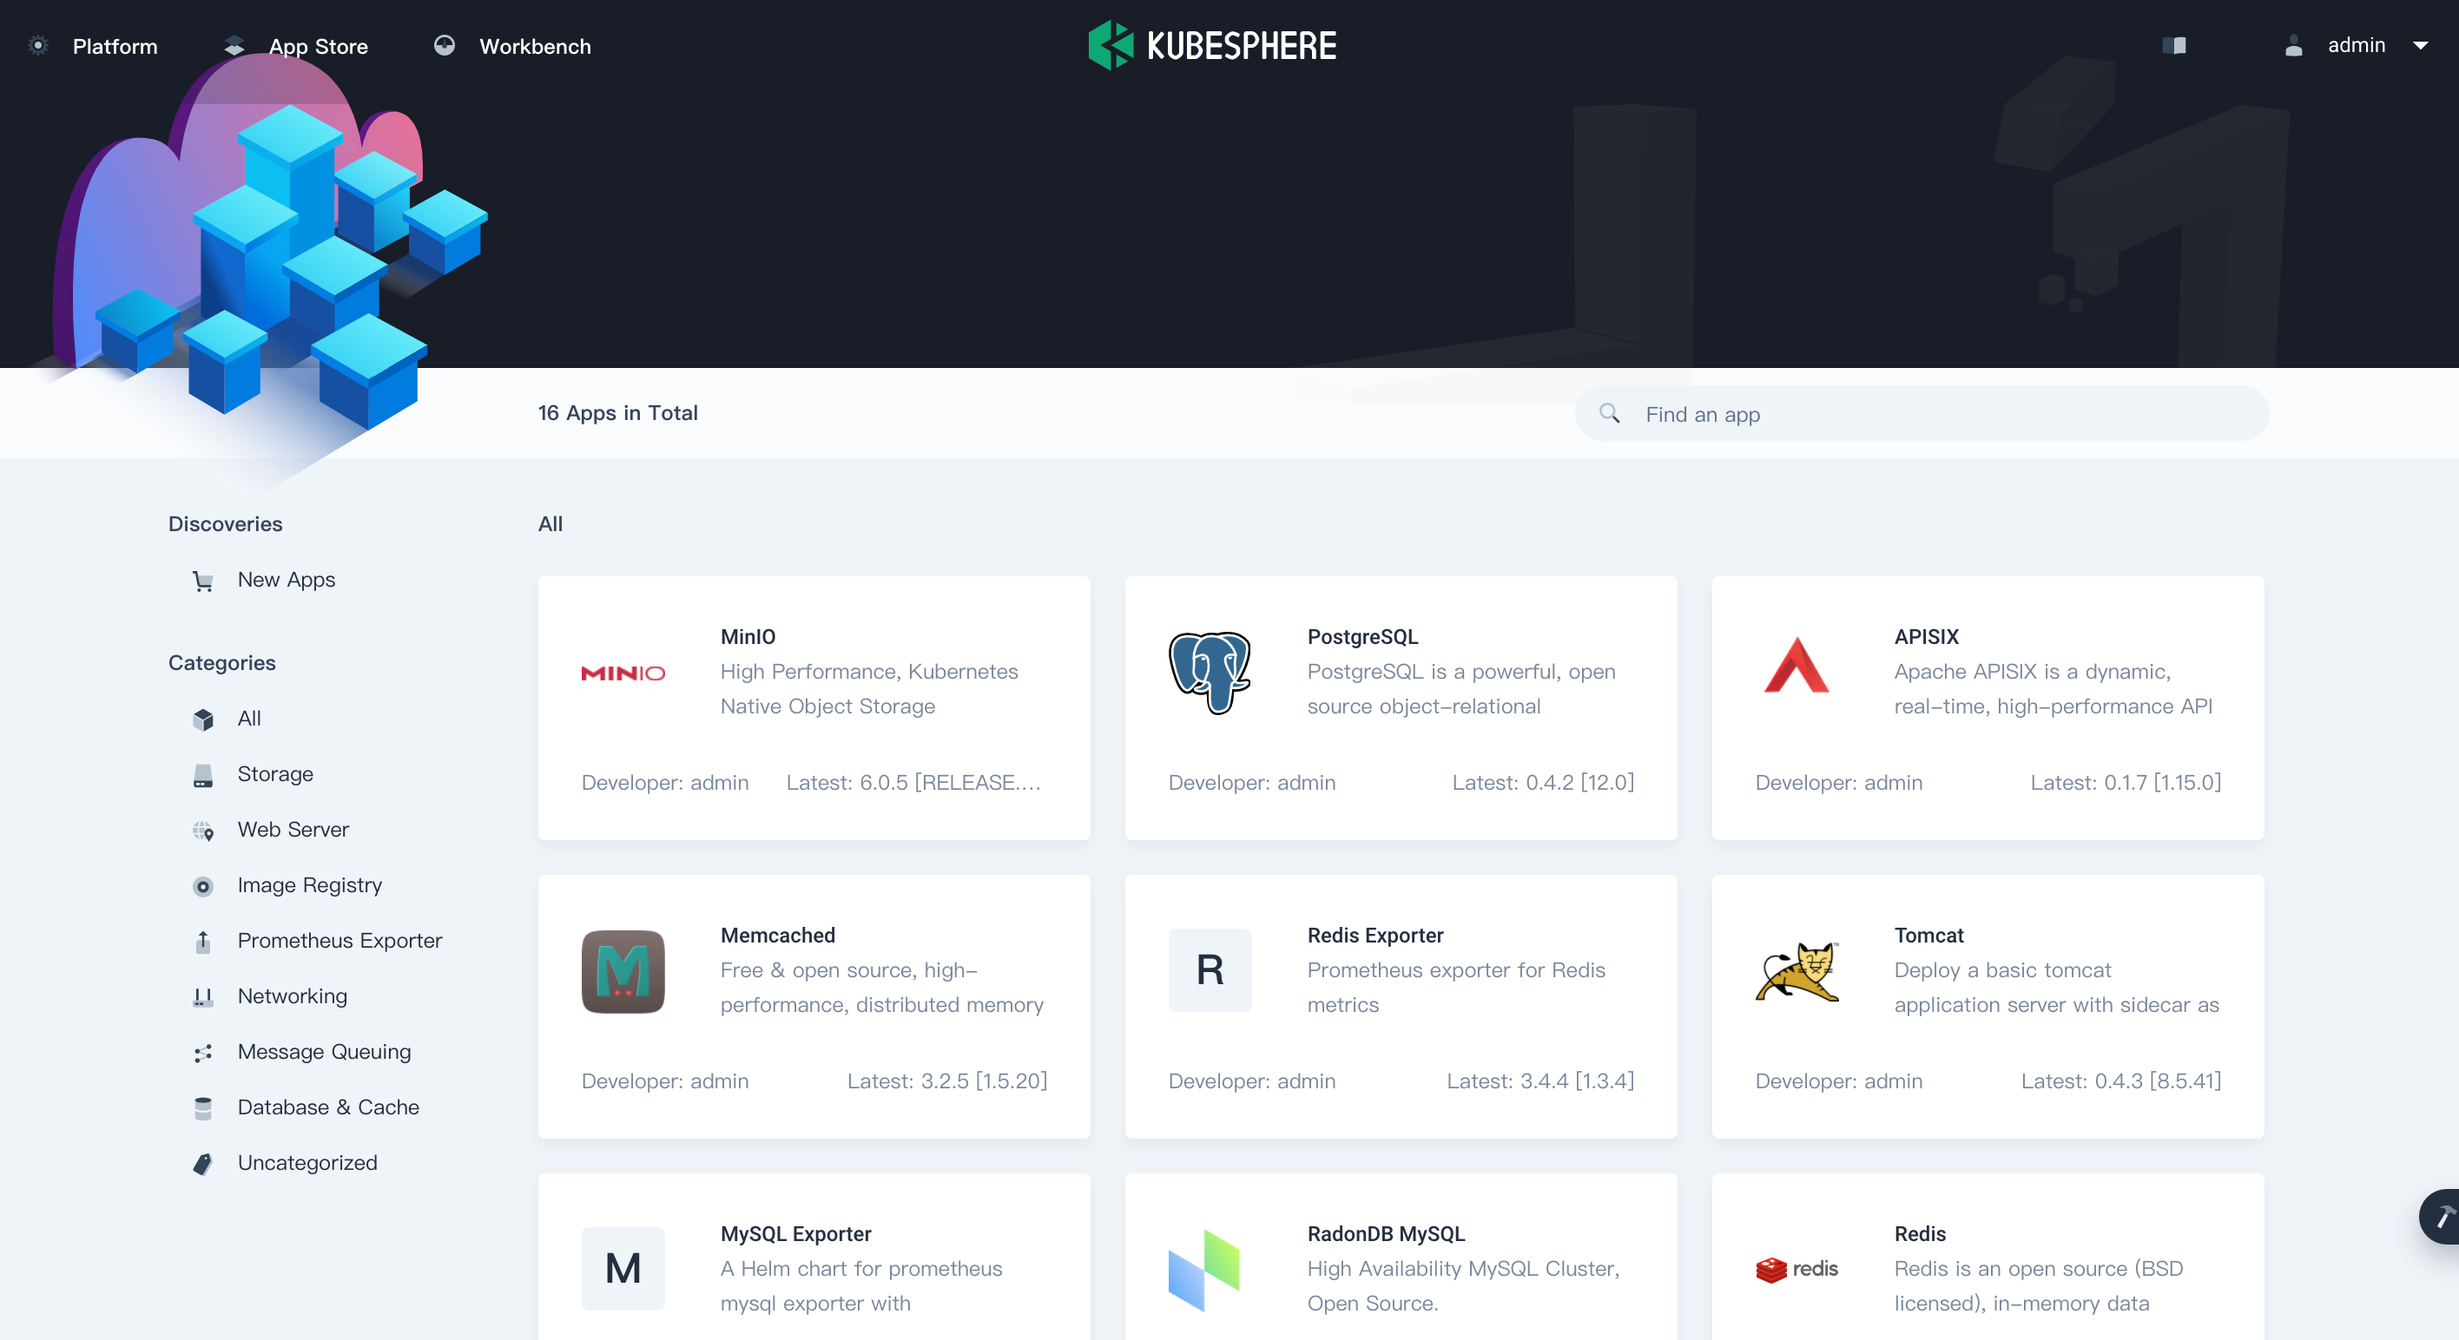
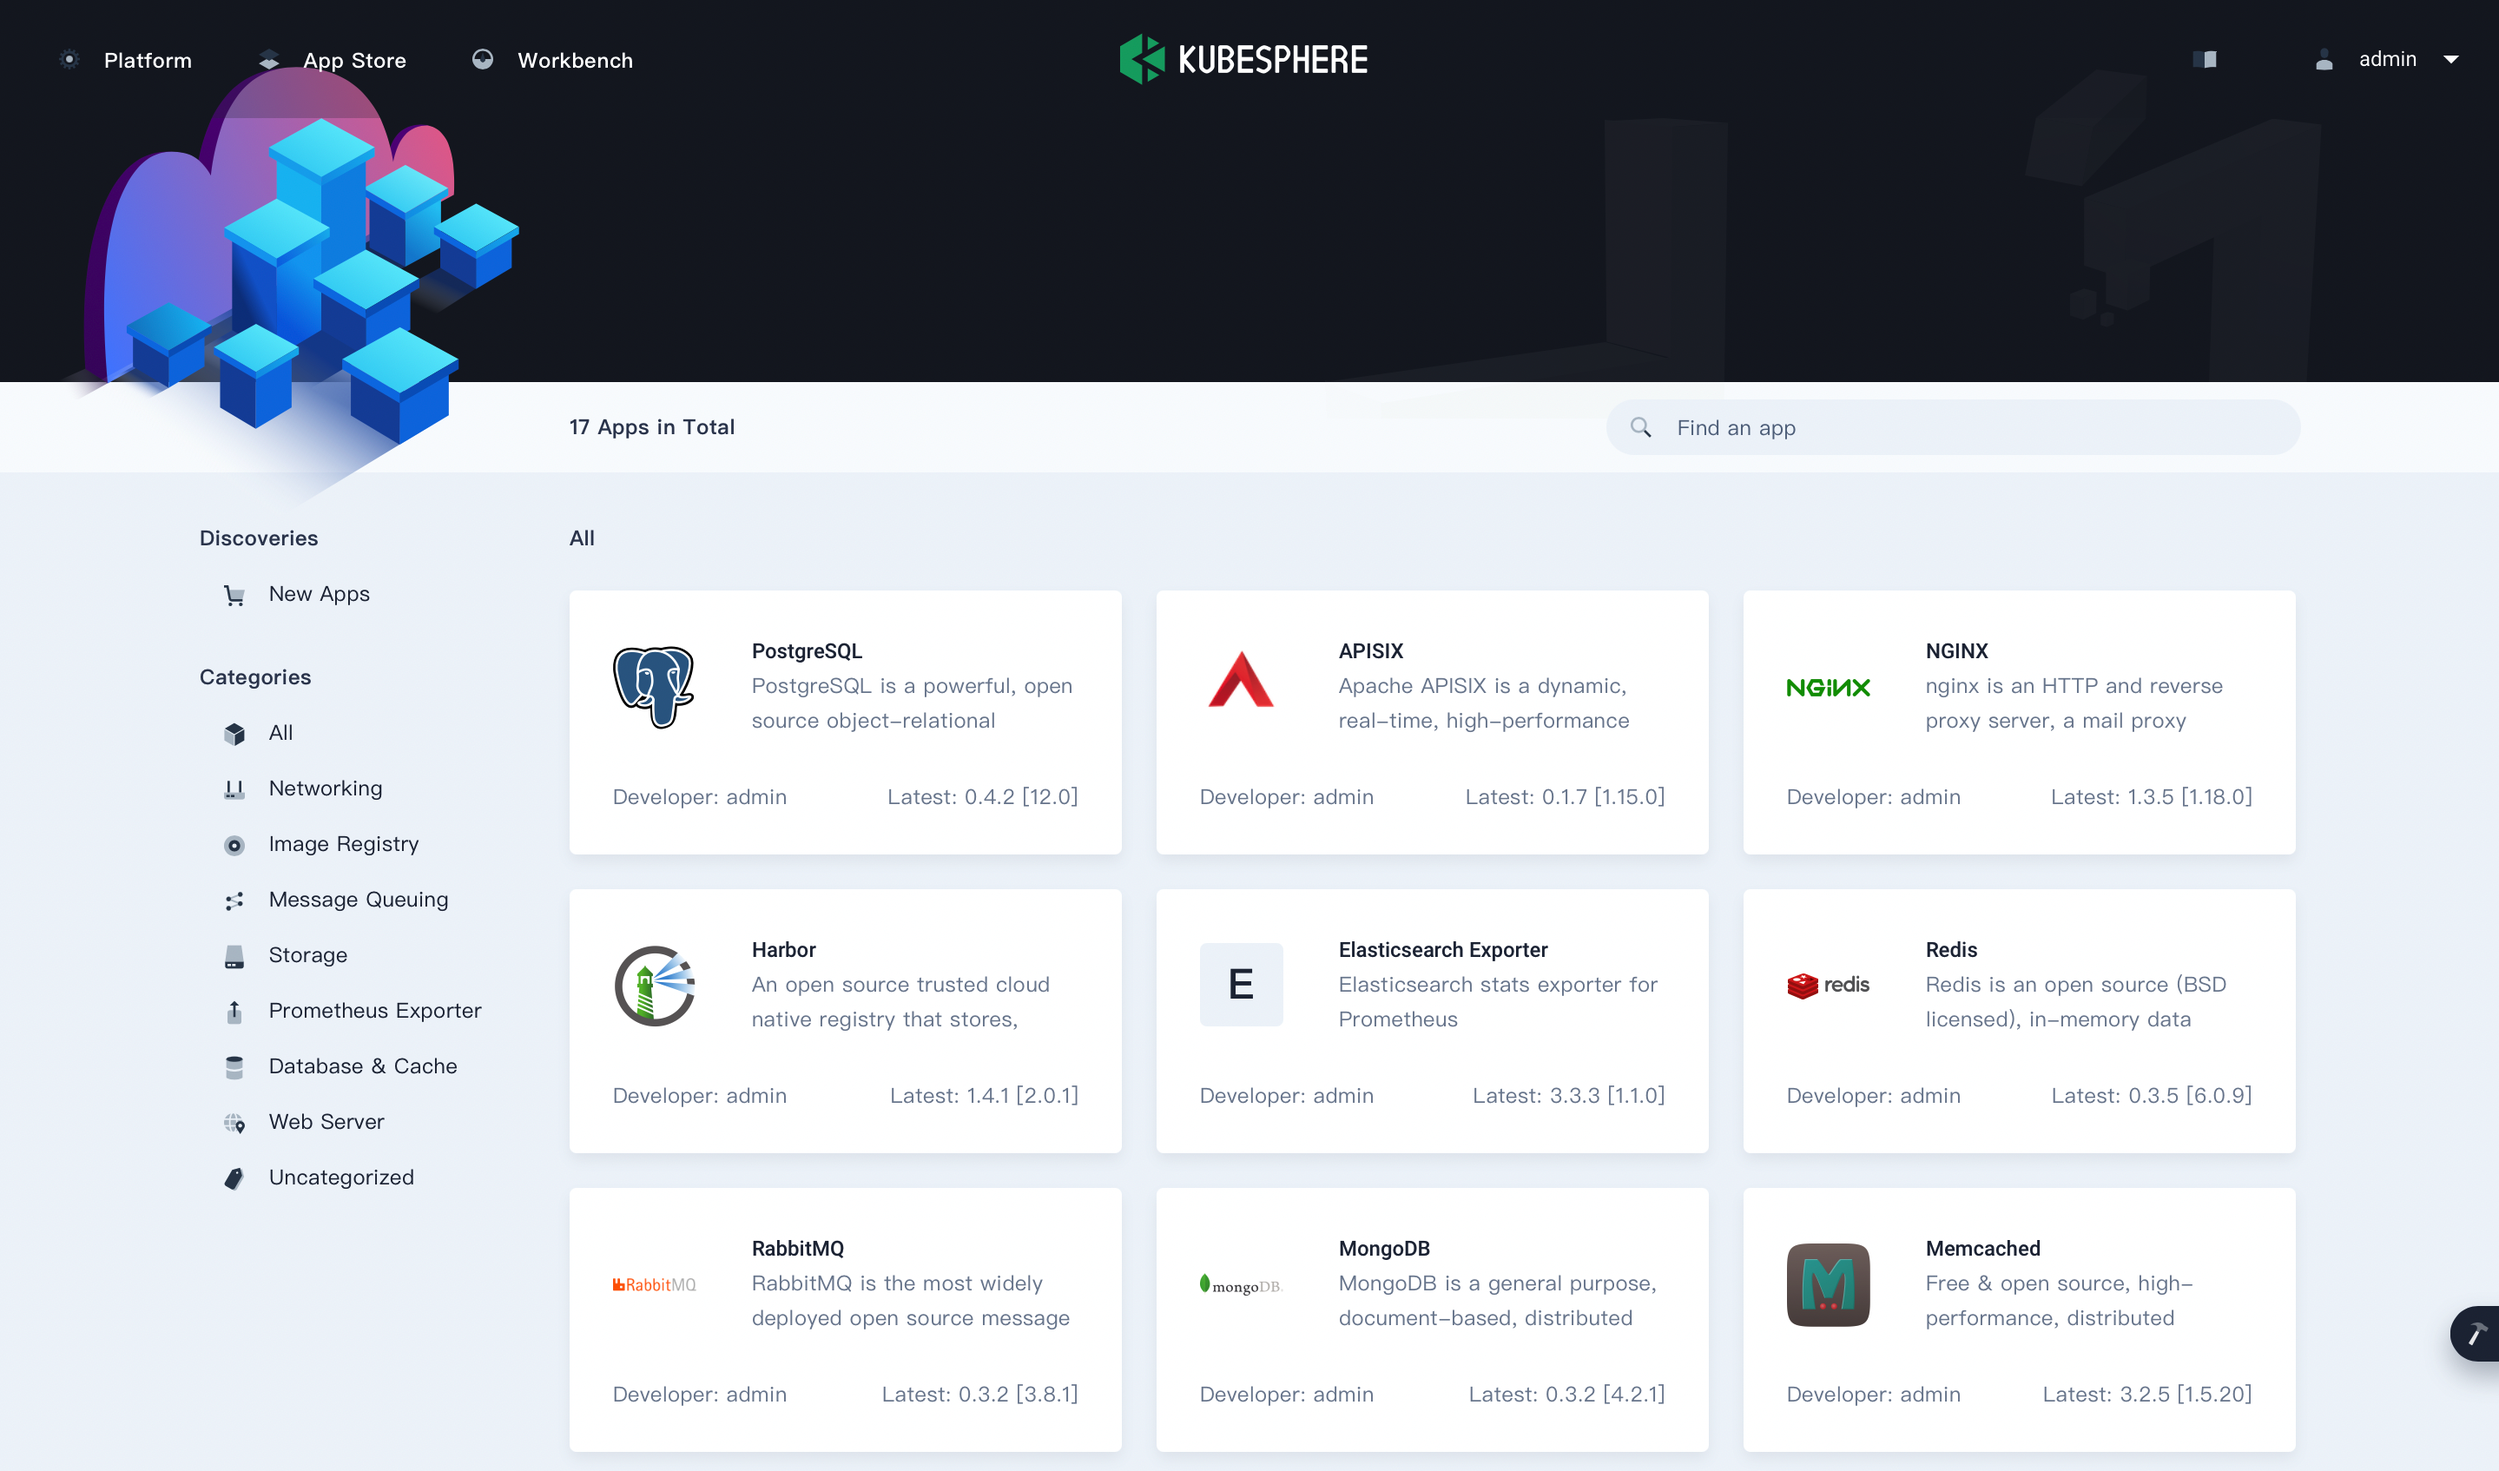
Update docs: App Store

diff --git a/content/en/docs/pluggable-components/app-store.md b/content/en/docs/pluggable-components/app-store.md
@@ -8,7 +8,7 @@ weight: 6200
 
 As an open-source and app-centric container platform, KubeSphere provides users with a Helm-based App Store for application lifecycle management on the back of [OpenPitrix](https://github.com/openpitrix/openpitrix), an open-source web-based system to package, deploy and manage different types of apps. The KubeSphere App Store allows ISVs, developers and users to upload, test, deploy and release apps with just several clicks in a one-stop shop.
 
-Internally, the KubeSphere App Store can serve as a place for different teams to share data, middleware, and office applications. Externally, it is conducive to setting industry standards of building and delivery. By default, there are 16 built-in apps in the App Store. After you enable this feature, you can add more apps with app templates.
+Internally, the KubeSphere App Store can serve as a place for different teams to share data, middleware, and office applications. Externally, it is conducive to setting industry standards of building and delivery. By default, there are 17 built-in apps in the App Store. After you enable this feature, you can add more apps with app templates.
 
 ![app-store](/images/docs/enable-pluggable-components/kubesphere-app-store/app-store.png)
 
@@ -72,9 +72,9 @@ As you [install KubeSphere on Kubernetes](../../installing-on-kubernetes/introdu
 
 ## Enable the App Store after Installation
 
-1. Log in to the console as `admin`. Click **Platform** in the top-left corner and select **Cluster Management**.
+1. Log in to the console as `admin`. Click **Platform** in the upper-left corner and select **Cluster Management**.
    
-2. Click **CRDs** and enter `clusterconfiguration` in the search bar. Click the result to view its detail page.
+2. Click **CRDs** and enter `clusterconfiguration` in the search bar. Click the result to view its details page.
 
     {{< notice info >}}
 
@@ -84,7 +84,7 @@ A Custom Resource Definition (CRD) allows users to create a new type of resource
 
 3. In **Resource List**, click <img src="/images/docs/enable-pluggable-components/kubesphere-app-store/three-dots.png" height="20px"> on the right of `ks-installer` and select **Edit YAML**.
 
-4. In this YAML file, navigate to `openpitrix` and change `false` to `true` for `enabled`. After you finish, click **Update** in the bottom-right corner to save the configuration.
+4. In this YAML file, go to `openpitrix` and change `false` to `true` for `enabled`. After you finish, click **Update** in the lower-right corner to save the configuration.
 
     ```yaml
     openpitrix:
@@ -92,7 +92,7 @@ A Custom Resource Definition (CRD) allows users to create a new type of resource
         enabled: true # Change "false" to "true".
     ```
 
-5. You can use the web kubectl to check the installation process by executing the following command:
+5. You can use the web kubectl to check the installation process by running the following command:
 
     ```bash
     kubectl logs -n kubesphere-system $(kubectl get pod -n kubesphere-system -l app=ks-install -o jsonpath='{.items[0].metadata.name}') -f
@@ -100,13 +100,13 @@ A Custom Resource Definition (CRD) allows users to create a new type of resource
 
     {{< notice note >}}
 
-You can find the web kubectl tool by clicking <img src="/images/docs/enable-pluggable-components/kubesphere-app-store/hammer.png" height="20px"> in the bottom-right corner of the console.
+You can find the web kubectl tool by clicking <img src="/images/docs/enable-pluggable-components/kubesphere-app-store/toolbox.png" height="20px"> in the lower-right corner of the console.
 
 {{</ notice >}}
 
 ## Verify the Installation of the Component
 
-After you log in to the console, if you can see **App Store** in the top-left corner and 16 built-in apps in it, it means the installation is successful.
+After you log in to the console, if you can see **App Store** in the upper-left corner and 17 built-in apps in it, it means the installation is successful.
 
 ![app-store](/images/docs/enable-pluggable-components/kubesphere-app-store/app-store.png)
 

diff --git a/content/zh/docs/pluggable-components/app-store.md b/content/zh/docs/pluggable-components/app-store.md
@@ -8,9 +8,9 @@ weight: 6200
 
 作为一个开源的、以应用为中心的容器平台，KubeSphere 在 [OpenPitrix](https://github.com/openpitrix/openpitrix) 的基础上，为用户提供了一个基于 Helm 的应用商店，用于应用生命周期管理。OpenPitrix 是一个开源的 Web 平台，用于打包、部署和管理不同类型的应用。KubeSphere 应用商店让 ISV、开发者和用户能够在一站式服务中只需点击几下就可以上传、测试、部署和发布应用。
 
-对内，KubeSphere 应用商店可以作为不同团队共享数据、中间件和办公应用的场所。对外，有利于设立构建和交付的行业标准。默认情况下，应用商店中内置了 16 个应用。启用该功能后，您可以通过应用模板添加更多应用。
+对内，KubeSphere 应用商店可以作为不同团队共享数据、中间件和办公应用的场所。对外，有利于设立构建和交付的行业标准。默认情况下，应用商店中内置了 17 个应用。启用该功能后，您可以通过应用模板添加更多应用。
 
-![app-store](/images/docs/zh-cn/enable-pluggable-components/kubesphere-app-store/app-store-page.png)
+![app-store](/images/docs/zh-cn/enable-pluggable-components/kubesphere-app-store/app-store.png)
 
 有关更多信息，请参阅[应用商店](../../application-store/)。
 
@@ -74,7 +74,7 @@ weight: 6200
 
 1. 以 `admin` 身份登录控制台，点击左上角的**平台管理**，选择**集群管理**。
 
-2. 点击**自定义资源 CRD**，在搜索栏中输入 `clusterconfiguration`，点击结果查看其详细页面。
+2. 点击**自定义资源 CRD**，在搜索栏中输入 `clusterconfiguration`，点击结果查看其详情页面。
 
     {{< notice info >}}
 自定义资源定义 (CRD) 允许用户在不增加额外 API 服务器的情况下创建一种新的资源类型，用户可以像使用其他 Kubernetes 原生对象一样使用这些自定义资源。
@@ -98,14 +98,14 @@ weight: 6200
 
     {{< notice note >}}
 
-您可以通过点击控制台右下角的 <img src="/images/docs/zh-cn/enable-pluggable-components/kubesphere-app-store/hammer.png" height="20px"> 找到 Web Kubectl 工具。
+您可以通过点击控制台右下角的 <img src="/images/docs/zh-cn/enable-pluggable-components/kubesphere-app-store/toolbox.png" height="20px"> 找到 Web Kubectl 工具。
     {{</ notice >}}
 
 ## 验证组件的安装
 
-在您登录控制台后，如果您能看到页面左上角的**应用商店**以及其中的 16 个内置应用，则说明安装成功。
+在您登录控制台后，如果您能看到页面左上角的**应用商店**以及其中的 17 个内置应用，则说明安装成功。
 
-![app-store](/images/docs/zh-cn/enable-pluggable-components/kubesphere-app-store/app-store-page.png)
+![app-store](/images/docs/zh-cn/enable-pluggable-components/kubesphere-app-store/app-store.png)
 
 {{< notice note >}}
 
